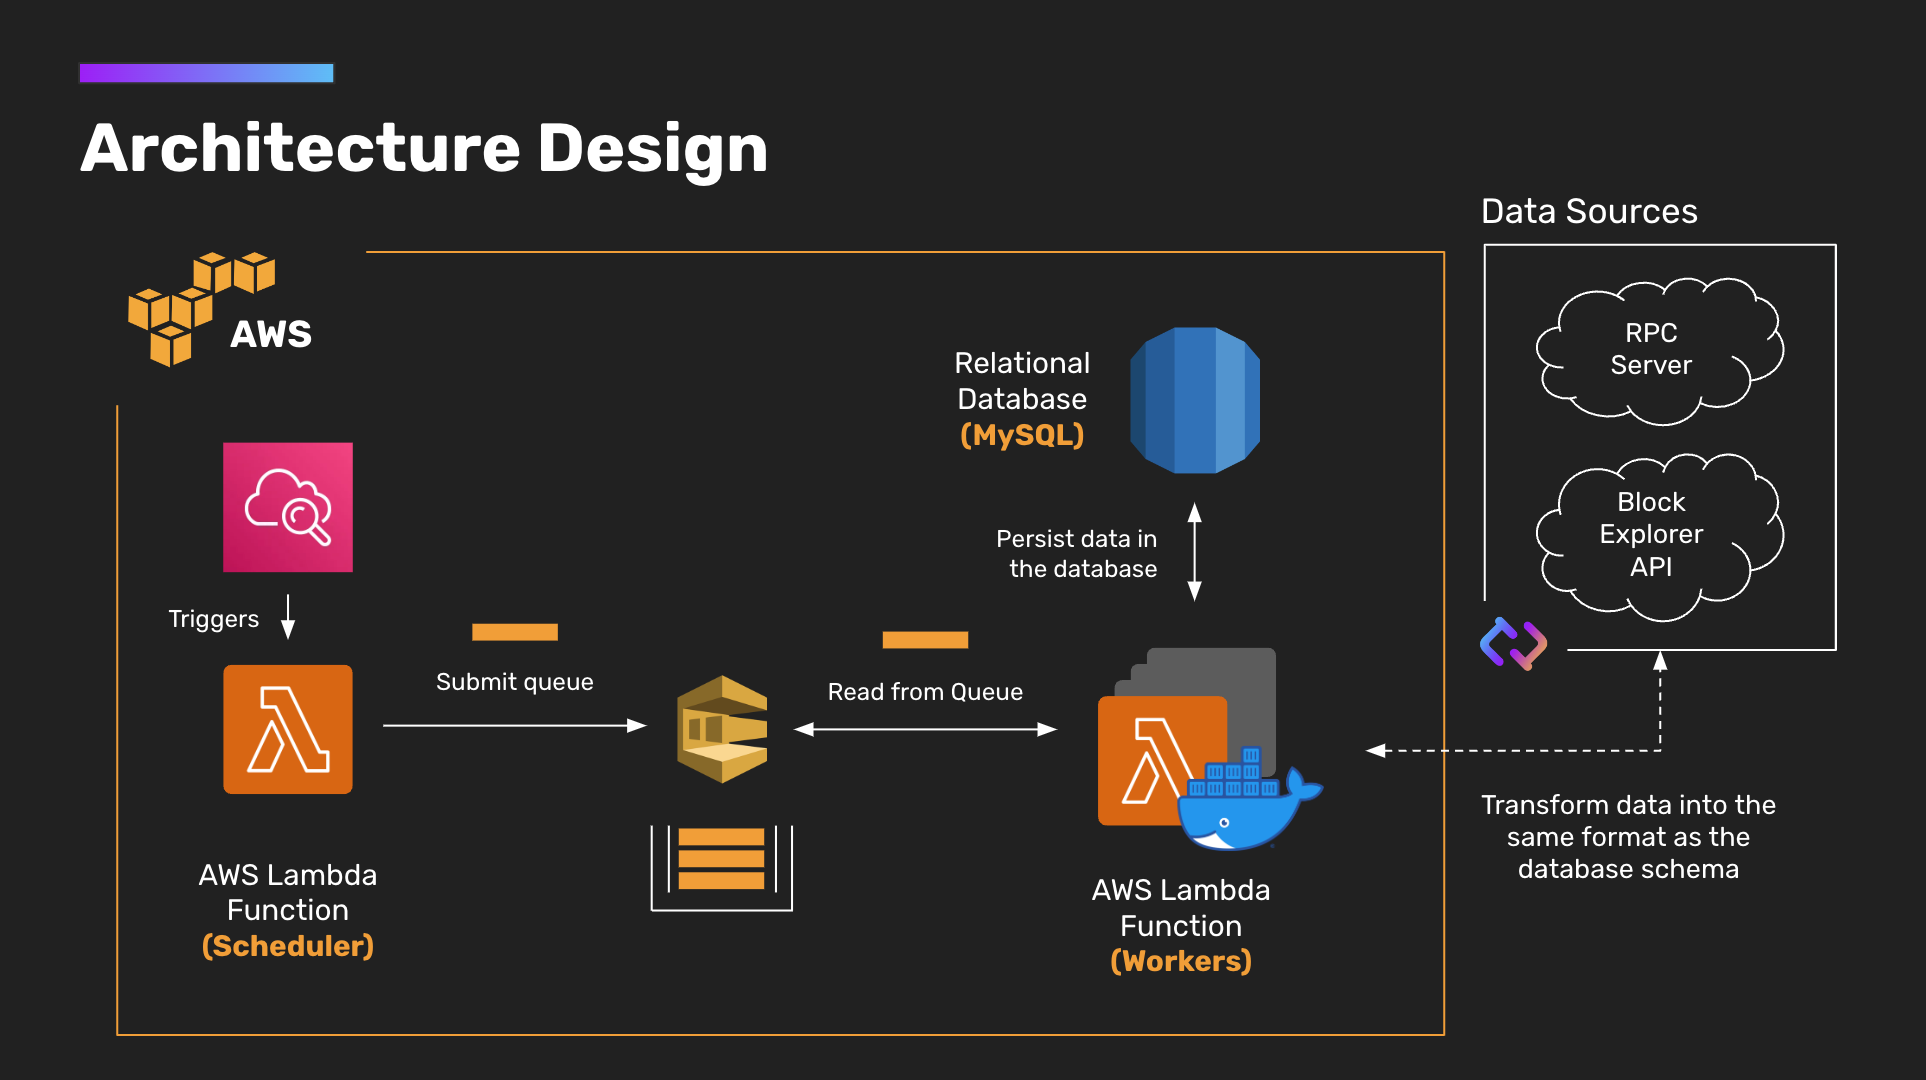
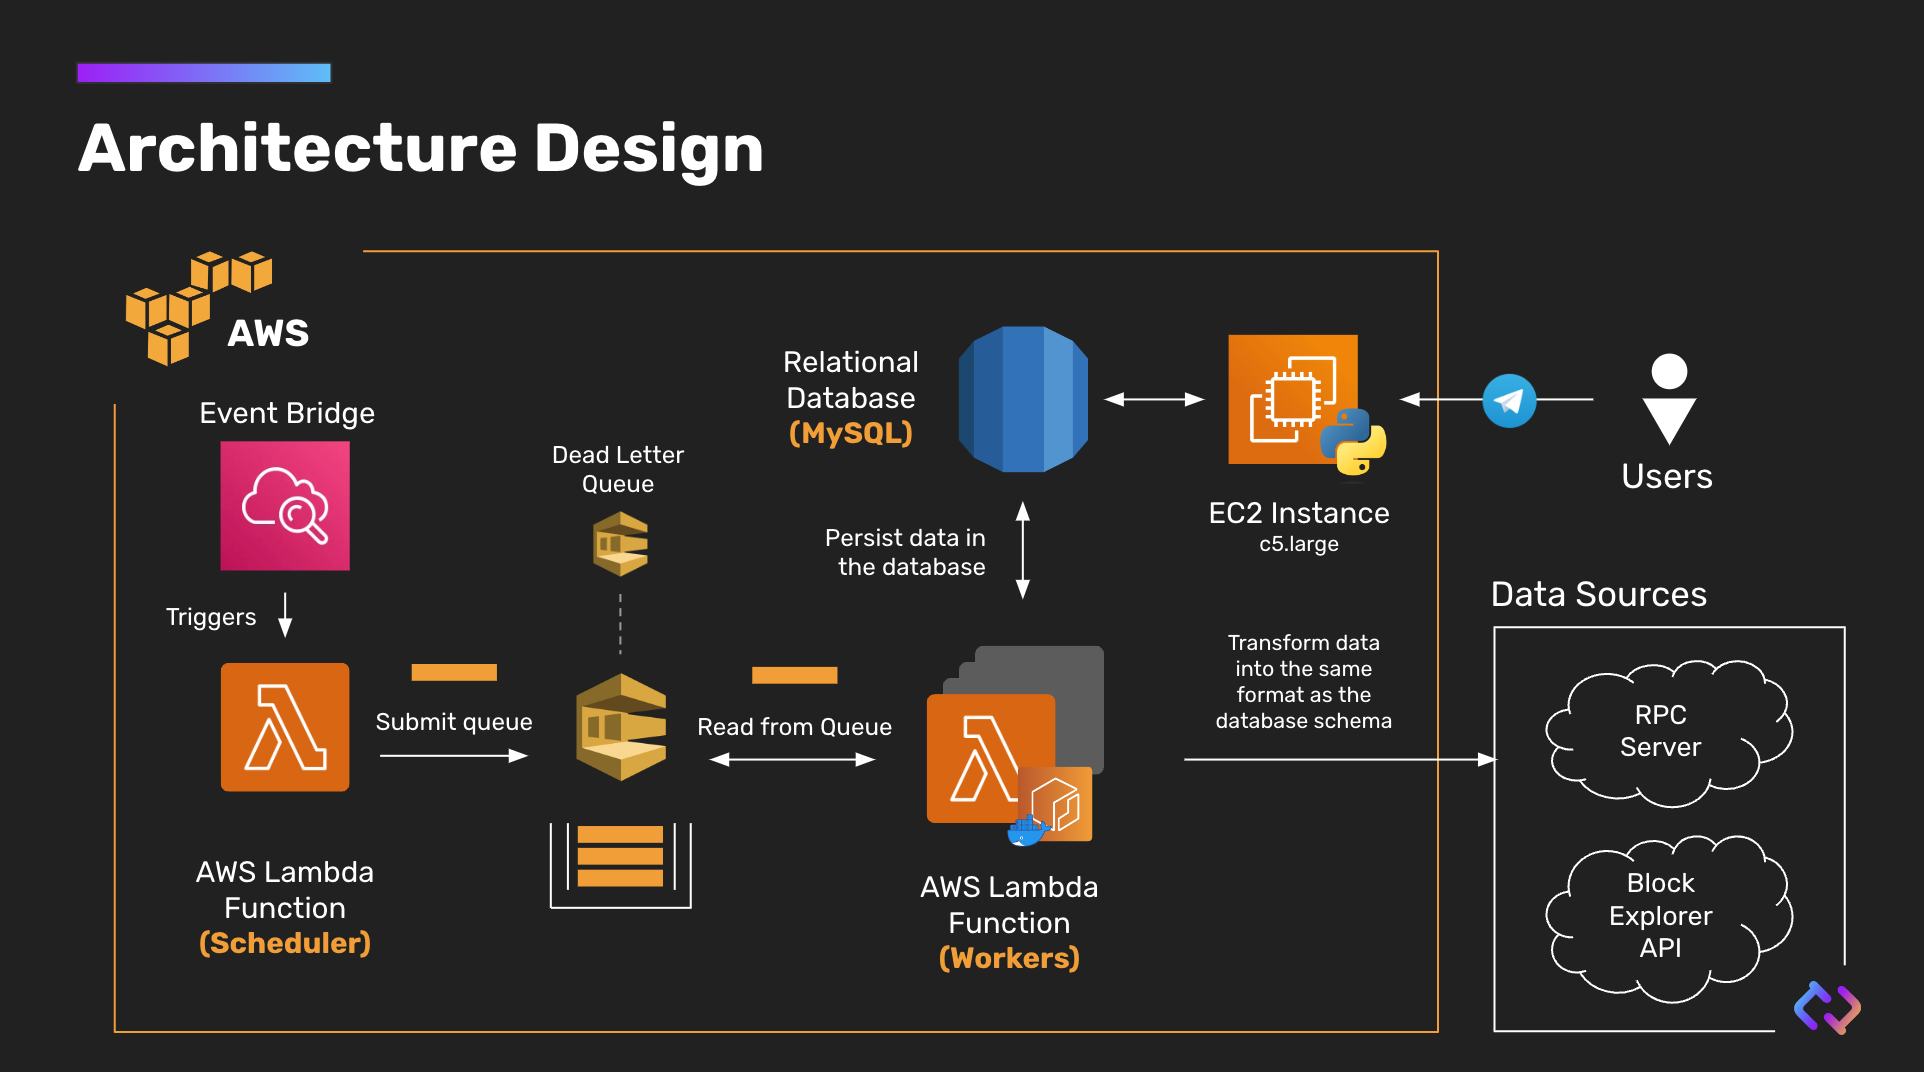
update README.md ✍

diff --git a/README.md b/README.md
@@ -1,5 +1,5 @@
-# Connext Galxe Dashboard
-The script to automatically fetch Connext Liquidity transaction for it's [Liquidity Bootstraping Campaign](https://blog.connext.network/providing-liquidity-on-connext-f7aa3f2bc7b8). The
+# Connext Telegram Bot for Liquidity Bootstraping Campaign
+The script to automatically fetch Connext Liquidity transaction for it's [Liquidity Bootstraping Campaign](https://blog.connext.network/providing-liquidity-on-connext-f7aa3f2bc7b8).
 
 ## Table of Contents
   - [Architecture](#architecture)
@@ -8,7 +8,7 @@ The script to automatically fetch Connext Liquidity transaction for it's [Liquid
     - [Setting up RDS](#setting-up-rds)
     - [Setting up SQS](#setting-up-sqs)
     - [Setting up Lambda function that attached with CloudWatch Event](#setting-up-lambda-function-that-attached-with-cloudwatch-event)
-  - [Usage](#usage)
+  - [Setting up Lambda Function](#setting-up-lambda-function)
     - [1. Setup AWS CLI](#1-setup-aws-cli)
       - [1.1 Installation](#11-installation)
       - [1.2 Authrization](#12-authrization)
@@ -23,6 +23,7 @@ The script to automatically fetch Connext Liquidity transaction for it's [Liquid
       - [4.2 Create Lambda Function](#42-create-lambda-function)
     - [5. Configure Environment variables](#5-configure-environment-variables)
     - [6. Configure trigger](#6-configure-trigger)
+    - [7. Initialize EC2 instance](#7-initialize-ec2-instance)
   - [Fetching historical data](#fetching-historical-data)
   - [Notes](#notes)
   - [Authors](#authors)
@@ -35,6 +36,8 @@ For the cloud provider, we utilize AWS as it is the most popular cloud provider 
 To make the data available in real-time, we utilized CloudWatch Event to trigger the Lambda function every 5 minutes. The Lambda function will process the event and store it as a queue in AWS Simple Queue Service (SQS). Then, another Lambda function will be triggered to fetch the data from the queue and store it in AWS Relational Database Service (RDS) as a MySQL database. Note that we have 2 separate Lambda functions that will read from the queue to capture two types of events.
 
 The first Lambda function will capture any `addSwapLiquidity` or `removeSwapLiquidity` transcation. In other word, the first lambda function will keep tracking of any mint/burn event of the Connext LP. The second Lambda function will capture all `Transfer` event. In other word, the second lambda function will keep tracking of any transfer of the Connext LP.
+
+The EC2 instance will be used to compute time-weighted average (aka. score) of each user. The score will be calculated every 15 minutes, and stored in local computer. At the same time, this instance will run a telegram bot script that will listen to any command from the user. The user can use the telegram bot to query their score.
 
 Both events will be stored in the same SQL database in the RDS. The schema of the database is as follow:
 
@@ -95,7 +98,7 @@ Make sure you save those `Queue URL` for both queue as you will need it later.
 At this point, you have successfully created the Lambda function that will listen to the CloudWatch Event and trigger the Lambda function that will feed the data to the SQS. You can check if the function is working properly by looking at the `Monitoring` tab. You should see the `Invocations` increasing every 5 minutes, and your queue should have some messages in it.
 
 
-## Usage
+## Setting up Lambda Function
 This section will explain how to deploy the Lambda function to your AWS account. Note that **you need to have an AWS account** as well as already follow the instruction in the [Prerequisite](#prerequisite) section.
 
 ### 1. Setup AWS CLI
@@ -132,7 +135,7 @@ Then, you need to build a docker image. To do so, follow the instruction below:
 ```sh
 docker build --platform=linux/amd64 -t <container-name> -f transactions.dockerfile .
 ```
-Also, you need to specify the `container-name` in the command above. If you want to build the docker image for the transfers, you can use the `transfers.dockerfile` instead.
+Also, you need to specify the `container-name` in the command above. If you want to build the docker image for the transfers, you can use the `transfers.dockerfile` instead. Also, note that the `--platform=linux/amd64` is required only if you are using M1 Mac.
 
 #### 3.3 Tag docker
 After building the docker image, you need to tag it. To do so, follow the instruction below:
@@ -188,6 +191,54 @@ After configuring the environment variables, you need to configure the triggers.
 5. Click on `Add`
 
 Make sure both Lambda function are listening to the correct queue. At this point, you should be able to see the logs from the Lambda function.
+
+### 7. Initialize EC2 instance
+For this step, you are creating an EC2 instance that will be used to initialize the python telegram bot. To do so, follow the instruction below:
+1. Create an EC2 instance with the following configuration:
+    - AMI: Ubuntu Server 20.04 LTS (HVM), SSD Volume Type
+    - Instance type: c5.large (This is the minimum requirement as a burstable compute-optimized instance is required to compute the cache data)
+    - Security group: Make sure to allow SSH and HTTP
+2. SSH into the instance
+3. Preparing packages by copying [`src`](./src/), [`run_cache.py`](./scripts/run_cache.py), [`run_bot.py`](./scripts/run_bot.py) and [`requirements.txt`](./requirements.txt) from this repository to the instance
+```sh
+scp -i <path-to-pem-file> -r src ubuntu@<ec2-instance-public-ip>:/home/ubuntu
+scp -i <path-to-pem-file> -r requirements.txt ubuntu@<ec2-instance-public-ip>:/home/ubuntu
+scp -i <path-to-pem-file> run_cache.py ubuntu@<ec2-instance-public-ip>:/home/ubuntu
+scp -i <path-to-pem-file> run_bot.py ubuntu@<ec2-instance-public-ip>:/home/ubuntu
+```
+4. Install python3.8, pip3, and setting up virtual environment
+```sh
+sudo apt update
+sudo apt install python3.8 python3-pip
+sudo apt install python3.8-venv
+python3.8 -m venv venv
+source venv/bin/activate  # Activate virtual environment
+```
+5. Install required packages
+```sh
+pip3 install -r requirements.txt
+```
+6. Create a telegram bot and get the API key from [here](https://core.telegram.org/bots#6-botfather)
+7. Create a `.env` file and add the following variables:
+```sh
+TELEGRAM_BOT_TOKEN=<telegram-bot-token>
+AWS_RDS_HOSTNAME=<hostname-of-rds-database>
+AWS_RDS_USERNAME=<username-of-rds-database>
+AWS_RDS_PASSWORD=<password-of-rds-database>
+DEBUG=true
+```
+8. Setting up cronjob to run the script every 15 minutes
+```sh
+crontab -e
+```
+Add the following line to the file:
+```sh
+*/15 * * * * /home/ubuntu/venv/bin/python /home/ubuntu/src/run_telegram_bot.py > /home/ubuntu/cron.log 2>&1
+```
+9. Run the script
+```sh
+python run_telegram_bot.py
+```
 
 ## Fetching historical data
 To fetch historical data, you need to run the `run_historical_transactions.py` script. To do so, follow the instruction below:
